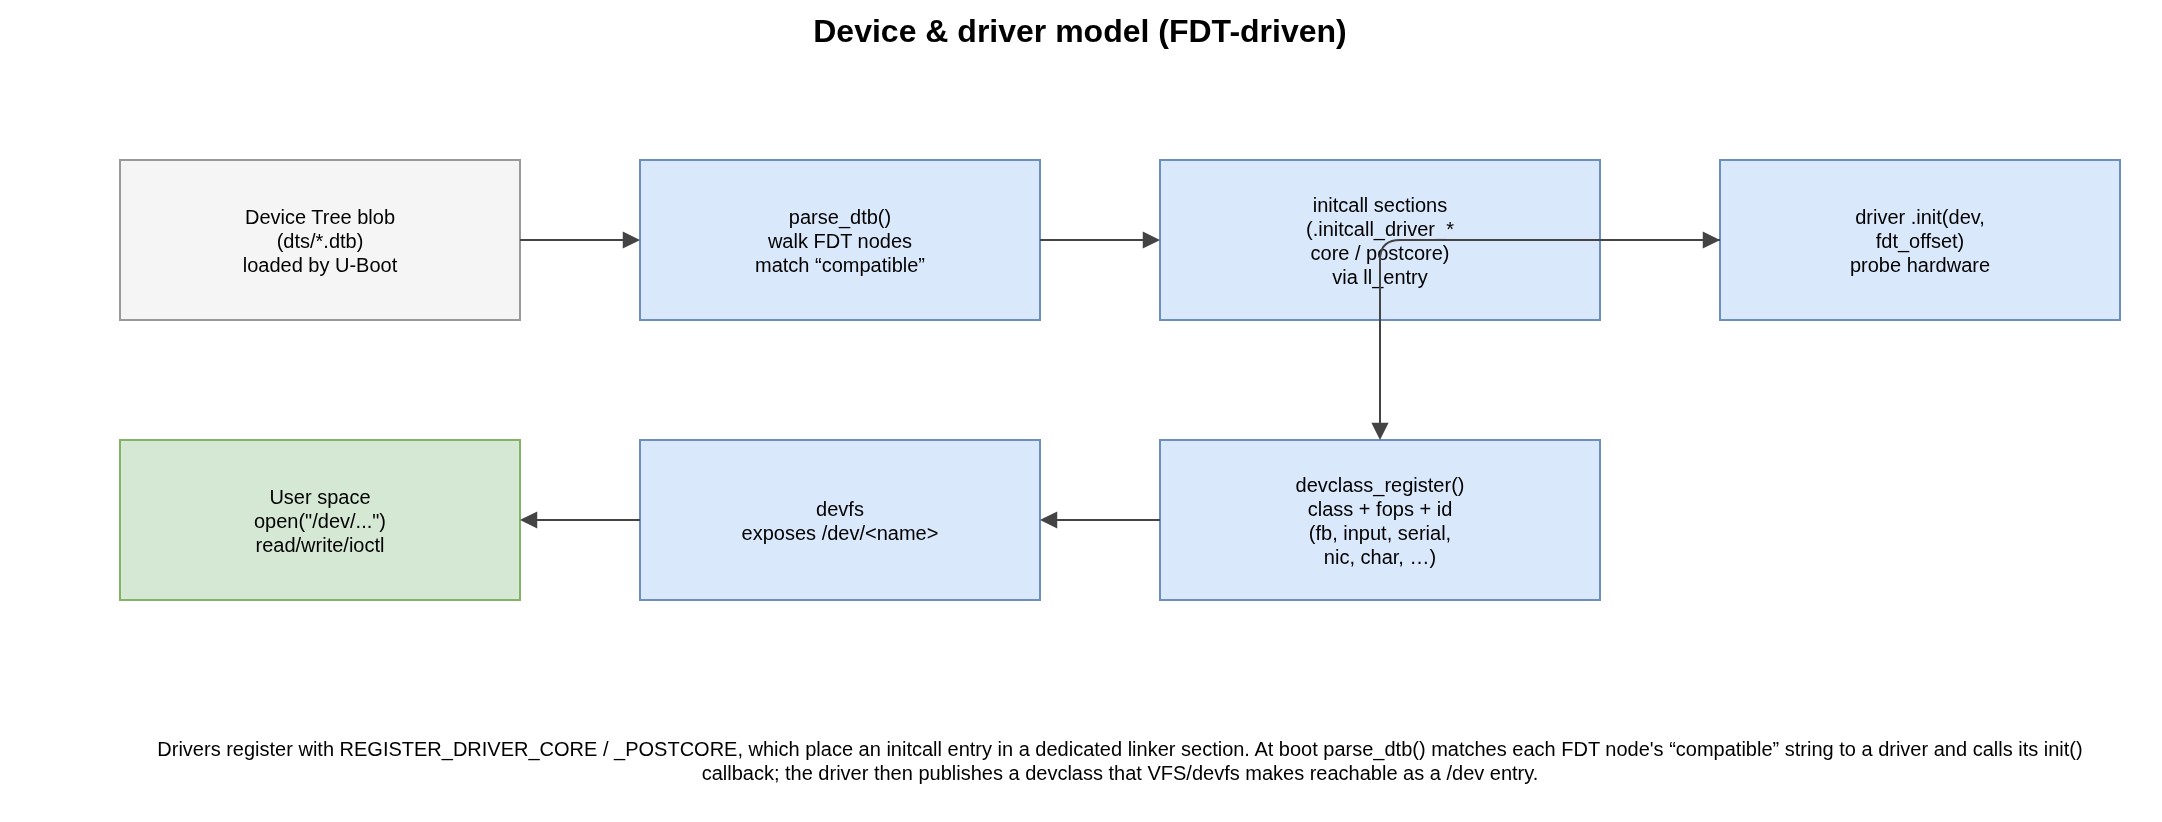
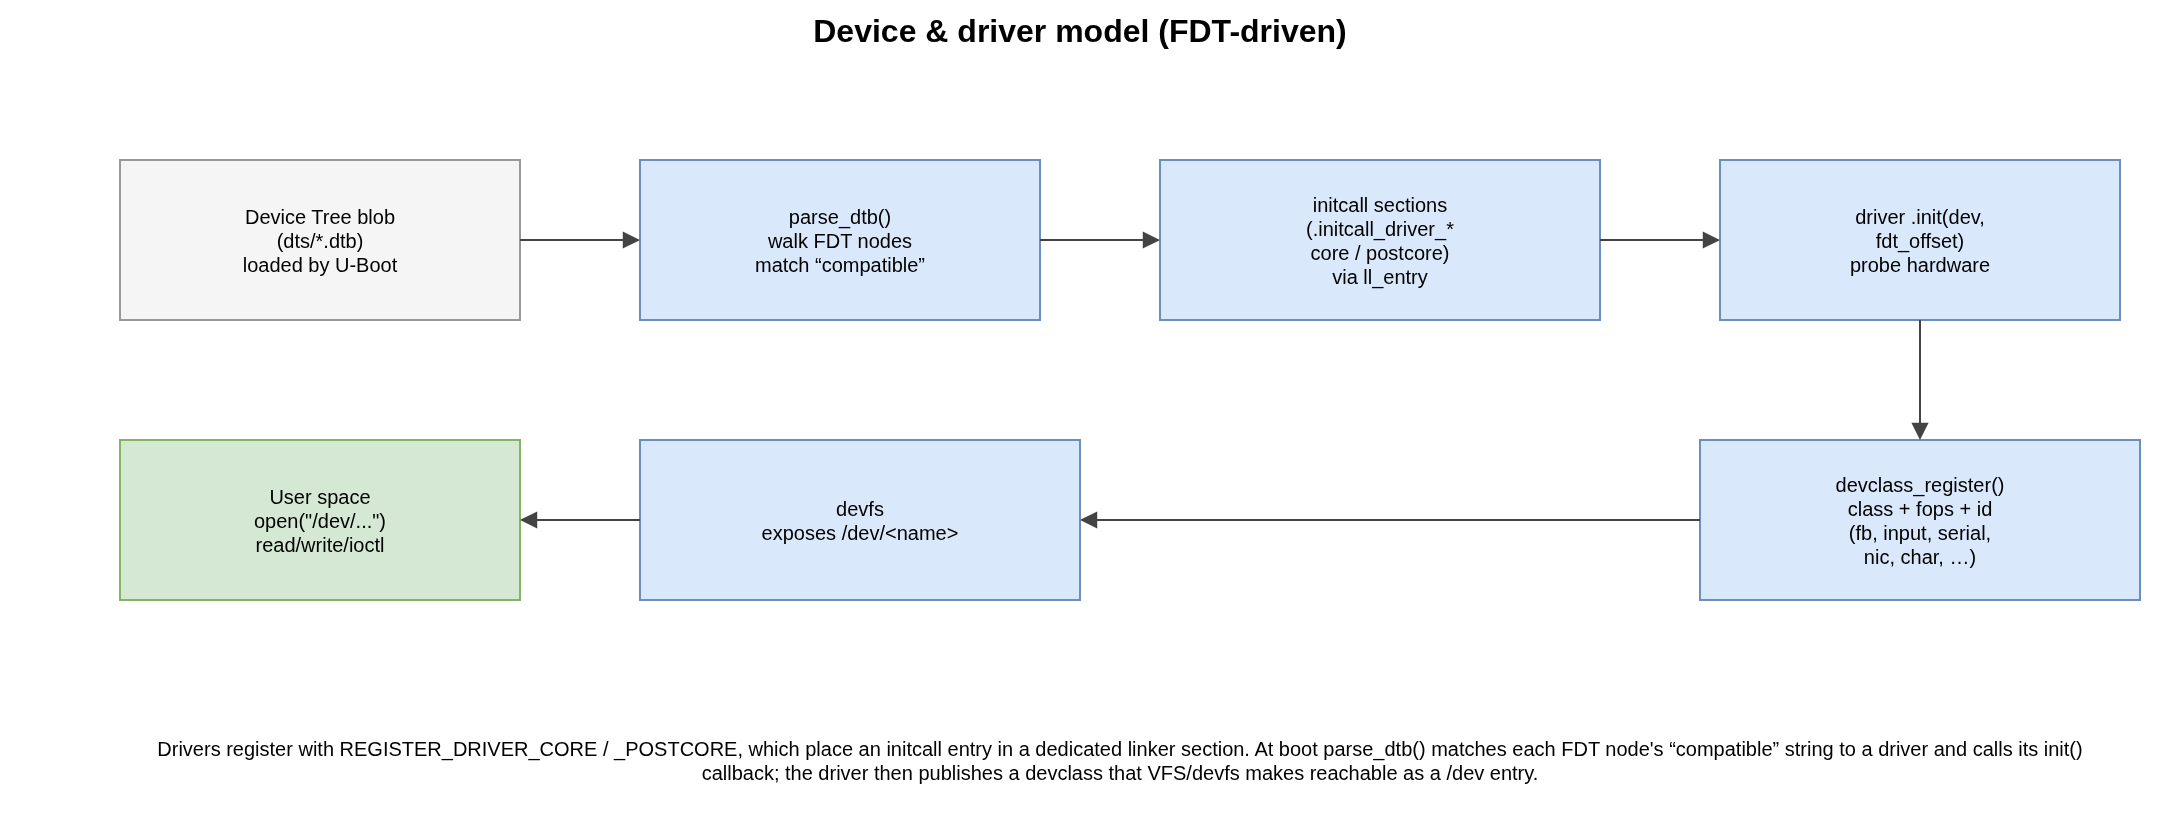
doc: fix diagram edge routing so arrows no longer cross boxes
Reroute three edges that were drawn straight through rectangles:

- build: bitbake → recipes and recipes → do_itb now connect to the band's
  top/bottom border with vertical drops, instead of a diagonal across the
  recipe boxes.
- boot: the "standalone" (FIT → SO3 kernel) and "Loading Guest Domain →
  SO3 kernel" arrows now route below the AVZ row instead of through the
  AVZ box.
- device-model: devclass_register() moved directly under driver .init()
  so the snake turns with a clean vertical drop rather than an arrow
  cutting back across the "initcall sections" box.

Regenerated so3.drawio and the affected PNGs (the other pages are
unchanged / deterministic).

Changed region(s): [[0.4648, 0.517, 0.7438, 0.7299], [0.7747, 0.517, 0.9917, 0.7299], [0.3409, 0.6083, 0.4339, 0.6691]]

diff --git a/doc/source/img/gen_so3_diagrams.py b/doc/source/img/gen_so3_diagrams.py
@@ -155,9 +155,12 @@ load= p.box(780, 78, 270, 44, "Loading Guest Domain — stage-2 → agency", AVZ
 so  = p.box(540, 168, 190, 44, "SO3 kernel (EL1)\n__start → kernel_start()", KERNEL, 10)
 p.edge(ub, fit, "", EX)
 p.edge(fit, av, "AVZ config")
-p.edge(fit, so, "standalone")
+# "standalone": drop out of FIT's bottom and enter SO3's left, staying below the
+# AVZ row so the arrow does not cross the AVZ box.
+p.edge(fit, so, "standalone", ARR + "exitX=0.5;exitY=1;entryX=0;entryY=0.5;")
 p.edge(av, load, "", EX)
-p.edge(load, so)
+# AVZ hands the loaded guest to SO3: drop below the AVZ row, then into SO3's right.
+p.edge(load, so, "", ARR + "exitX=0.5;exitY=1;entryX=1;entryY=0.5;")
 # kernel bring-up — snake: row A left→right, row B right→left
 rowA = [
     ("memory_init()", "frame table + MMU"),
@@ -295,11 +298,16 @@ a = p.box(60, 90, 200, 80, "Device Tree blob\n(dts/*.dtb)\nloaded by U-Boot", NE
 b = p.box(320, 90, 200, 80, "parse_dtb()\nwalk FDT nodes\nmatch “compatible”", KERNEL, 10)
 c = p.box(580, 90, 220, 80, "initcall sections\n(.initcall_driver_*\ncore / postcore)\nvia ll_entry", KERNEL, 10)
 d = p.box(860, 90, 200, 80, "driver .init(dev,\nfdt_offset)\nprobe hardware", KERNEL, 10)
-e = p.box(580, 230, 220, 80, "devclass_register()\nclass + fops + id\n(fb, input, serial,\nnic, char, …)", KERNEL, 10)
-f = p.box(320, 230, 200, 80, "devfs\nexposes /dev/<name>", KERNEL, 10)
+# 'e' sits directly under 'd' so the snake (a→b→c→d top, e→f→g bottom) turns
+# with a clean vertical drop instead of an arrow cutting back across box 'c'.
+e = p.box(850, 230, 220, 80, "devclass_register()\nclass + fops + id\n(fb, input, serial,\nnic, char, …)", KERNEL, 10)
+f = p.box(320, 230, 220, 80, "devfs\nexposes /dev/<name>", KERNEL, 10)
 g = p.box(60, 230, 200, 80, "User space\nopen(\"/dev/...\")\nread/write/ioctl", USER, 10)
-for s, t in [(a,b),(b,c),(c,d),(d,e),(e,f),(f,g)]:
+for s, t in [(a,b),(b,c),(c,d)]:
     p.edge(s, t)
+p.edge(d, e, "", ARR + "exitX=0.5;exitY=1;entryX=0.5;entryY=0;")   # vertical drop
+p.edge(e, f, "", ARR + "exitX=0;exitY=0.5;entryX=1;entryY=0.5;")   # leftward
+p.edge(f, g, "", ARR + "exitX=0;exitY=0.5;entryX=1;entryY=0.5;")   # leftward
 p.label(60, 360, 1000, 60,
         "Drivers register with REGISTER_DRIVER_CORE / _POSTCORE, which place an initcall entry in a dedicated "
         "linker section. At boot parse_dtb() matches each FDT node's “compatible” string to a driver and calls its "
@@ -319,7 +327,7 @@ bsh = p.box(390, 78, 230, 74, "scripts/build.sh\n-a bsp-so3  (-k / -x / -c)", WH
 bb  = p.box(670, 78, 230, 74, "bitbake\nmeta-* layers + recipes", AVZ, 11)
 p.edge(cfg, bsh); p.edge(bsh, bb)
 # recipes band
-p.box(40, 200, 1020, 175, "Recipes (meta-* layers)", CONT, 12, 1)
+rec = p.box(40, 200, 1020, 175, "Recipes (meta-* layers)", CONT, 12, 1)
 so3 = p.box(70, 245, 150, 110,
             "so3 kernel\n(meta-so3)\n\nIN-TREE\nKconfig + dts", KERNEL, 10)
 avz = p.box(235, 245, 150, 110,
@@ -332,7 +340,9 @@ usr = p.box(730, 245, 150, 110,
             "usr-so3\n(meta-usr)\n\nCMake + MUSL\n(meta-toolchain)", USER, 10)
 rf  = p.box(895, 245, 145, 50, "rootfs-so3\n(meta-rootfs)", USER, 9)
 bsp = p.box(895, 305, 145, 50, "bsp-so3\n(meta-bsp)", CAPS, 9)
-p.edge(bb, so3)
+# bitbake drops straight into the recipes band (connect to the band border,
+# not to an individual recipe box, so the arrow doesn't cross any rectangle).
+p.edge(bb, rec, "", ARR + "exitX=0.5;exitY=1;entryX=0.73;entryY=0;")
 # bottom row: itb -> deploy -> run
 itb = p.box(70, 420, 250, 64,
             "do_itb → mkimage\nso3/target/*.its  →  .itb", WHITE, 10)
@@ -340,7 +350,9 @@ dep = p.box(420, 420, 250, 64,
             "scripts/deploy.sh -a/-k\n→ sdcard FAT  (+ flash0.img)", WHITE, 10)
 run = p.box(770, 420, 270, 64,
             "scripts/st.sh  /  stg.sh\n→ QEMU (EL1 / EL2 / ATF)", WHITE, 10)
-p.edge(bsp, itb); p.edge(itb, dep, "", ARR + "exitX=1;exitY=0.5;entryX=0;entryY=0.5;")
+# the band feeds do_itb: drop from the band's lower-left border straight down.
+p.edge(rec, itb, "", ARR + "exitX=0.15;exitY=1;entryX=0.5;entryY=0;")
+p.edge(itb, dep, "", ARR + "exitX=1;exitY=0.5;entryX=0;entryY=0.5;")
 p.edge(dep, run, "", ARR + "exitX=1;exitY=0.5;entryX=0;entryY=0.5;")
 p.label(40, 520, 1020, 70,
         "SO3 kernel and user space are built IN-TREE (committed sources). u-boot, qemu and avz are "
